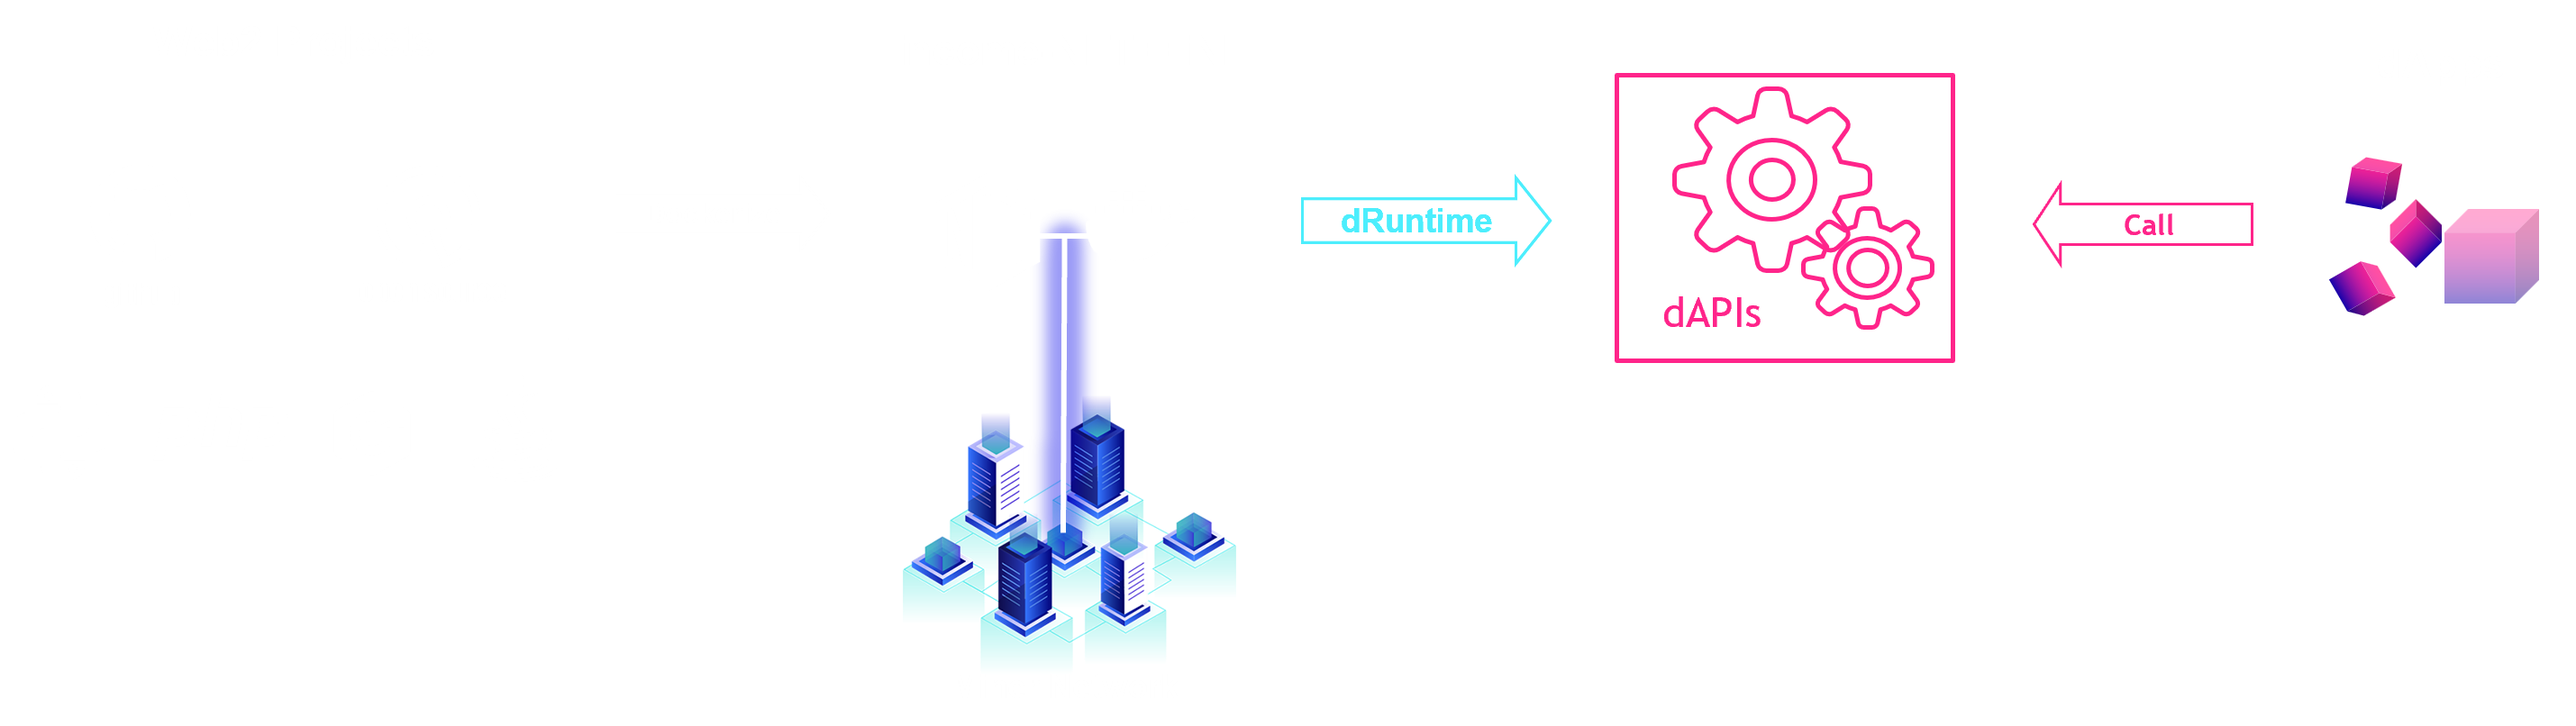
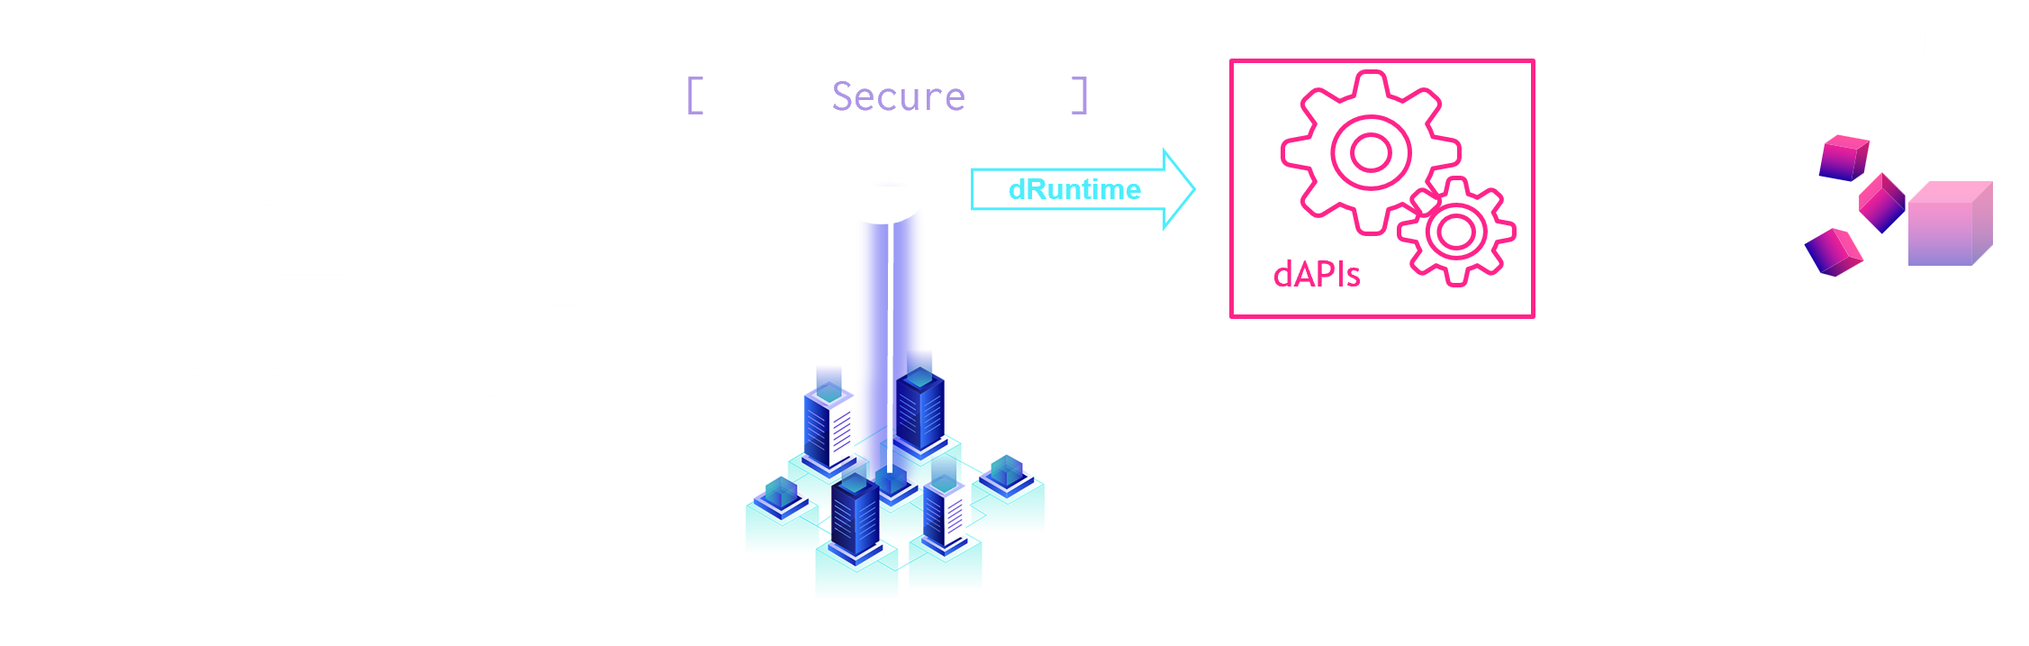
update

diff --git a/src/App.js b/src/App.js
@@ -23,12 +23,12 @@ import icon_location from './static/icon_location.png'
 import AppHeader from './components/app_header/AppHeader';
 import { isChrome } from './utils/platform';
 
-export const white_paper_link = ""
+export const white_paper_link = "/file/SaaS3Whitepaper.pdf"
 export const pichdeck_link = ""
 const interval_height = '12rem'
 
-const dev_mode = false;
-// const dev_mode = true;
+// const dev_mode = false;
+const dev_mode = true;
 // controls whether the opening screen should show.
 
 export const goToOverview = () => {
@@ -96,8 +96,8 @@ function App() {
                     </div>
 
                     <div hidden={clicked} className="App-link" href="https://mythrillfiction.com/" target="_blank">
-                        <h1 className="graph-title-shadow"style={{zIndex:-1,bottom:'auto'}}> Software as a Service in Web3 </h1>
-                        <h1 className="graph-title" style={{zIndex:2}}> Software as a Service in Web3 </h1>
+                        <h1 className="graph-title-shadow"style={{zIndex:-1,bottom:'auto'}}> oracle network in Web3 </h1>
+                        <h1 className="graph-title" style={{zIndex:2}}> oracle network in Web3 </h1>
                     </div>
                 </div>
 
@@ -142,18 +142,16 @@ function App() {
                 
                 {/* id is used only for jummping, do not use on next <h1> if not needed */}
                 <div className='article_child'>
-                <h1 id='overview'>Web3 vs Web2</h1>
+                <h1 id='overview'>Blockchain Oracles are Unsafe</h1>
                 <div>
                 <p>
-                    Few Web3 Dapps regardless of rich abundant SaaS in Web2. For decentralized applications to acquire full-fledged functionalities, Web3 calls for an entirely different development stack than employed in web2. Existing blockchain layer2 virtual machines lack effective computational capabilities, making it a financial and technical challenge to deliver rich computation services. The layer2 scaling for not only high-priced Gas fees but the technical development stack is urgent.
+                    If the source (such as sensors) directly submits the data to the tamper-proof distributed ledger without going through multiple intermediaries, the possibility of data manipulation will be greatly reduced. However, the Off-Chain computations are centralized on AWS-like servers.
                 </p></div>
-                <div className='images'>
-                    <div>
                     <img
                         className="article-img"
                         src={problemimg1}
-                    /></div>
-                </div>
+                        style={{width:'600px'}}
+                    />
                 </div>
                 {/*<div style={{height:interval_height}} />*/}
             </div>
@@ -161,7 +159,7 @@ function App() {
             <div className='Overview article'  style={{zIndex:3}} >
                 <div className='article_child'>
                 <h1>Layer2 Trilemma</h1>
-                    <p>Decentralization, Scalability and Partition tolerance. SaaS3 approaches the trilemma with layerX protocol and delivers a solution for the next generation Dapps. </p>
+                    <p>Decentralization, Scalability and Partition tolerance. SaaS3 approaches the trilemma with SaaS3 protocol and delivers a solution for the next generation Dapps. </p>
                     <br></br>
                      <img
                         className="article-img"
@@ -172,23 +170,21 @@ function App() {
             </div>
             <div className='Overview article'  style={{zIndex:3}} >
                 <div className='article_child'>
-                <h1>Software as a Service in Web3</h1>
+                <h1>Secure oracle as a Service</h1>
                 <p>
-                    SaaS3 establishes a platform for the next generation of Dapps, or ‘Dapp2.0’, to expand and deliver. SaaS3 revolutionizes the traditional Dapp development architecture with layerX / dAPIs, which goes beyond the established blockchain layer2. It employs the decentralized docker runtime (dRuntime) to address the poor compatibility for WASM / EVM. Traditional Dapp has three parts, whereas Dapp2 architecture has four components, namely Layer2, Frontend, LayerX, and Oracles.
+                    Web2 API providers could deploy their serverless APIs on decentralized runtime (dRuntime). Each miner could run all the serverless Web2 APIs.
                 </p>
                     <br></br>
                      <img
                         className="article-img"
                         src={ss3}
-                        style={{width:'800px'}}
+                        style={{width:'500px'}}
                     />
                 </div>
             </div>
             <div className='Overview article'  style={{zIndex:3}} >
                 <div className='article_child'>
-                <h1>LayerX</h1>
-                    <p>LayerX allows developers to monetize abundant Web2 APIs as decentralized Web3 ‘dAPIs’ in only 10 minutes with docker containers. On LayerX, all Web2 APIs could be dockerized in containers and rapidly deployed in a decentralized miner network, or decentralized docker runtime (dRuntime). By minting income-NFTs (iNFT) with their created dAPIs, API developers claim full entitlements to API-derived income earned in tokens. Holders of iNFTs and providers of computing resources (Miners) share profits from users’ payments, making ‘middleman’ a thing of the past.
-</p>
+                <h1>Trustful APIs</h1>
                     <br></br>
                              <img
                         className="article-img"
@@ -199,15 +195,16 @@ function App() {
             </div>
              <div className='Overview article'  style={{zIndex:3}} >
                 <div className='article_child'>
-                <h1 id='demo'>dAPI, dRuntime, and Usecase</h1>
-                    <p style={{textAlign:'center'}}>dRuntime is the decentralized environment to run dAPIs on decentralized computation nodes (Miners)
-                    </p>
-                    <br></br>
-                             <img
-                        className="article-img"
-                        src={dapi}
-                        style={{width:'500px'}}
-                    />
+                <h1 id='demo' name='demo'>Usecase</h1>
+                    {/*<p style={{textAlign:'center'}}>dRuntime is the decentralized environment to run dAPIs on decentralized computation nodes (Miners).*/}
+                    {/*</p>*/}
+                    {/*<br/>*/}
+                    {/*         <img*/}
+                    {/*    className="article-img"*/}
+                    {/*    src={dapi}*/}
+                    {/*    style={{width:'500px'}}*/}
+                    {/*/><br/>*/}
+                 <p style={{textAlign:'center', marginTop:'5vh'}}>Blockchain oracles with trustful off-chain computation are the future of Web3 to involve rich functionalities.</p>
                  <div className='usecase'>
                      <div className='page-content'>
                          <div className='card2'>
@@ -221,33 +218,40 @@ function App() {
                          </div>
                           <div className='card2'>
                             <div className='content'>
-                                <h2 className='title'>Digital Avatar</h2>
+                                <h2 className='title'>Game Bot</h2>
                                 <p className='copy'>
-                                    Avatar is your alter ego living in the decentralized world. Let us spare you the rocket knowledge to build one. We introduce dAPIs to create a metaverse image for you to meet with friends or co-workers.
+                                    Thanks to reinforcement learning, our dAPIs equip developers with ever-brainier bots. Familiarize bots with game mechanisms and economic regimes to enrich the gaming experience. Build best GameFi experiences.
                                 </p>
-                                <button className='btn' onClick={()=>{window.open('https://www.saas3.io/demo_dp', '_blank')}}>Try</button>
+                                <button className='btn' onClick={()=>{window.open('https://www.saas3.io/demo_pve', '_blank')}}>Try</button>
                             </div>
                          </div>
                           <div className='card2'>
                             <div className='content'>
-                                <h2 className='title'>Digital Avatar</h2>
+                                <h2 className='title'>NFT Generation</h2>
                                 <p className='copy'>
-                                    Avatar is your alter ego living in the decentralized world. Let us spare you the rocket knowledge to build one. We introduce dAPIs to create a metaverse image for you to meet with friends or co-workers.
+                                    Our dAPIs help you demystify engineering a fleet of NFTs.  Developers can grab a handy API to kick-start and fast-track their work. Create, customize, and assemble your digital collectibles.
                                 </p>
-                                <button className='btn' onClick={()=>{window.open('https://www.saas3.io/demo_dp', '_blank')}}>Try</button>
+                                <button className='btn' onClick={()=>{window.open('https://www.saas3.io/demo_ainft', '_blank')}}>Try</button>
                             </div>
                          </div>
                           <div className='card2'>
                             <div className='content'>
-                                <h2 className='title'>Digital Avatar</h2>
+                                <h2 className='title'>dQuant for DeFi</h2>
                                 <p className='copy'>
-                                    Avatar is your alter ego living in the decentralized world. Let us spare you the rocket knowledge to build one. We introduce dAPIs to create a metaverse image for you to meet with friends or co-workers.
+                                    Navigate quantitative trading with ease. Harness the latest algorithms developed by AI whizzes. Enabled by deep learning, our dAPIs are your go-to cash cow.
                                 </p>
-                                <button className='btn' onClick={()=>{window.open('https://www.saas3.io/demo_dp', '_blank')}}>Try</button>
+                                <button className='btn' onClick={()=>{window.open('https://www.saas3.io/demo_defi', '_blank')}}>Try</button>
                             </div>
                          </div>
-
-
+                         <div className='card2'>
+                            <div className='content'>
+                                <h2 className='title'>NFT Crossverse</h2>
+                                <p className='copy'>
+                                    Crossverse: Topple down boundaries between metaverse realms. Give every NFT a ready-made character in all virtual worlds. Use dAPI to switch between your decentralized identities seamlessly.
+                                </p>
+                                {/*<button className='btn' onClick={()=>{window.open('https://www.saas3.io/demo_defi', '_blank')}}>Try</button>*/}
+                            </div>
+                         </div>
                      </div>
                  </div>
                 </div>
@@ -256,33 +260,21 @@ function App() {
                 <div className='article_child'>
                 <h1>Tokenomics</h1>
                 <p>
-                    SA3 is the utility token in SaaS3 with the following use cases. API creators earn SA3 as royalty fees by creating a docker container and deploying it on the dRuntime. When deploying the dAPI, its creator may mint a unique tradable income-NFT (iNFT). The iNFT entitles its owner to a share of usage fee paid by dAPI user. dAPI users / Dapp developers pay $SA3 to API creators and miners as both usage fee and Gas fee. Miners (Computation nodes) earn Gas fees in executing the dAPI and maintaining dRuntime on their hardware. A miner can deploy any docker images. The mechanism of dAPI service offering redundancy delivers dRuntime to fully decentralize computation for SaaS3. Miner stakes and receives tasks based on zero-knowledge proof. LPoS and zk-proof guarantee the dRuntime consistency and security.
-                    Token Stakers profit from dAPI income by staking SA3 to high-quality dAPIs with DPoS (Delegated Poof-of-Stake).
+                SAAS is the utility token for governance and value store.
+Web2 API creators earn royalty fees by deploy a serverless API on the dRuntime to serve Dapps.
+Dapps (Smart Contracts) pay royalty fees and Gas fees to access APIs.
+Miners (Computation nodes) earn Gas fees in executing the APIs.
+Token Stakers profit from APIs royalty fees by staking to APIs to back their quality security (DPoS).
                 </p>
                 <div>
                 <img
                     className="article-img"
                     src={roles}
-                    style={{width:'600px'}}
+                    style={{width:'500px'}}
                 /></div>
                 {/*<div style={{height:interval_height}} />*/}
                 </div>
             </div>
-            <div className='Overview article'  style={{zIndex:3}} >
-                <div className='article_child'>
-                <h1>Portraits</h1>
-                <p>
-                </p>
-                <div>
-                <img
-                    className="article-img"
-                    src={portait}
-                    style={{width:'1000px'}}
-                /></div>
-                {/*<div style={{height:interval_height}} />*/}
-                </div>
-            </div>
-
 
             <div className='Overview article'  style={{zIndex:3}} >
                 <div className='article_child'>

diff --git a/src/components/contact/contact.js b/src/components/contact/contact.js
@@ -10,9 +10,9 @@ import {
 import './contact.css'
 import { Space } from 'antd'
 import {white_paper_link} from "../../App";
-export const twitter_link = "https://twitter.com/SaaS3DAO"
-export const telegram_link = "https://t.me/SaaS3DAO"
-export const github_link = "https://github.com/SaaS3DAO"
+export const twitter_link = "https://twitter.com/SaaS3Lab"
+export const telegram_link = "https://t.me/layerXnetwork"
+export const github_link = "https://github.com/SaaS3Lab"
 export const map_link = "https://goo.gl/maps/L4vicaLurYULHQ8Z6"
 
 const ContactBar = ({className}) => {
@@ -27,17 +27,17 @@ const ContactBar = ({className}) => {
             
             <div className="contact-unfold contact-unfold-short">
                 <TwitterOutlined className="contact-icon"/>
-                <div className="contact-unfold-text" onClick={()=>{window.open(twitter_link)}}>@SaaS3DAO</div>
+                <div className="contact-unfold-text" onClick={()=>{window.open(twitter_link)}}>@SaaS3Lab</div>
             </div>
 
             <div className="contact-unfold contact-unfold-short">
                 <SendOutlined className="contact-icon" style={{fontSize:24,paddingTop:2}}/>
-                <div className="contact-unfold-text" onClick={()=>{window.open(telegram_link)}}>SaaS3DAO</div>
+                <div className="contact-unfold-text" onClick={()=>{window.open(telegram_link)}}>SaaS3Lab</div>
             </div>
 
             <div className="contact-unfold">
                 <GithubOutlined className="contact-icon" style={{fontSize:24,paddingTop:2}}/>
-                <div className="contact-unfold-text" onClick={()=>{window.open(github_link)}}>https://github.com/SaaS3DAO</div>
+                <div className="contact-unfold-text" onClick={()=>{window.open(github_link)}}>https://github.com/SaaS3Lab</div>
             </div>
             <div className="contact-unfold">
                 <HomeOutlined className="contact-icon" style={{fontSize:24,paddingTop:2}}/>

diff --git a/src/components/network/network.js b/src/components/network/network.js
@@ -8,7 +8,7 @@ import {goToDemo, goToOverview, white_paper_link} from "../../App";
 import { isChrome } from "../../utils/platform";
 
 import safari_bg from '../../static/safari_bg.jpg';
-import logo from '../../logo.png'
+import title_png from '../../logo.png'
 
 
 
@@ -92,7 +92,7 @@ const NetworkGraph = ({style, className, height}) => {
     //     Graph.refresh();
     // });
 
-    const title = "Constructing the Next Generation Dapp"
+    const title = "Secure Off-Chain with Trustful APIs"
 
 
     return (
@@ -122,16 +122,16 @@ const NetworkGraph = ({style, className, height}) => {
                     enableNodeDrag={false}
                     enableNavigationControls={false}
                     enablePointerInteraction={false}
-                    showNavInfo={false}
+                    showNavInfo={false  }
                 />}
             </div>
             <div className="graph-title-container">
-                <img src={logo} style={{width:'30vw',marginBottom:'5%'}}/>
+                <img src={title_png} style={{width:'30vw',marginBottom:'5%'}}/>
                 <div className="relative-container" style={{marginBottom: 'calc(4vw + 20px)'}}>
                     <h1 className="graph-title-shadow"> {title} </h1>
                     <h1 className="graph-title" style={{zIndex:2}}> {title} </h1>
                 </div>
-                <p className="graph-text">SaaS3 is Decentralized Software as a Service. Click <a onClick={goToOverview}> Overview </a>to Learn More
+                <p className="graph-text">SaaS3 is Secure oracle as a Service in Web3. Click <a onClick={goToOverview}> Overview </a>to Learn More
                 <br/>
                 <a
                 onClick={goToDemo}

diff --git a/src/utils/usecase.css b/src/utils/usecase.css
@@ -1,7 +1,7 @@
 .usecase{
   display: grid;
   place-items: center;
-  margin-top: 5vh;
+  margin-top: 2vh;
 }
 
 :root{
@@ -74,16 +74,24 @@
   transition: transform calc(var(--d) * 2) var(--e);
 }
  .usecase .card2:nth-child(1):before {
-  background-image: url(../static/dig_avatar.png);
+     background-image: url(../static/dig_avatar.png);
+     background-size: contain;
 }
  .usecase .card2:nth-child(2):before {
-  background-image: url(https://images.unsplash.com/photo-1533903345306-15d1c30952de?ixlib=rb-1.2.1&q=80&fm=jpg&crop=entropy&cs=tinysrgb&w=400&fit=max&ixid=eyJhcHBfaWQiOjE0NTg5fQ);
+     background-image: url(../static/game_bot.png);
+     background-size: contain;
 }
  .usecase .card2:nth-child(3):before {
-  background-image: url(https://images.unsplash.com/photo-1545243424-0ce743321e11?ixlib=rb-1.2.1&q=80&fm=jpg&crop=entropy&cs=tinysrgb&w=400&fit=max&ixid=eyJhcHBfaWQiOjE0NTg5fQ);
+     background-image: url(../static/nft_gen.png);
+     background-size: contain;
 }
  .usecase .card2:nth-child(4):before {
-  background-image: url(https://images.unsplash.com/photo-1531306728370-e2ebd9d7bb99?ixlib=rb-1.2.1&q=80&fm=jpg&crop=entropy&cs=tinysrgb&w=400&fit=max&ixid=eyJhcHBfaWQiOjE0NTg5fQ);
+     background-image: url(../static/defi.png);
+     background-size: contain;
+}
+.usecase .card2:nth-child(5):before {
+     background-image: url(../static/crossverse.png);
+     background-size: contain;
 }
 
  .usecase .content {
@@ -110,6 +118,9 @@
   font-family: var(--font-serif);
   font-size: 1rem;
   font-style: italic;
+     font-weight: bold;
+     padding: 10px;
+     background: #000000bd;
   line-height: 1.35;
   width:inherit;
   text-align: inherit;

diff --git a/src/components/app_header/AppHeader.js b/src/components/app_header/AppHeader.js
@@ -20,7 +20,6 @@ const AppHeader = ({setClicled, tab, setTab}) => {
                 className='App-menu-item'
                 onClick={goToDemo}
             >Usecase/Demo</button>
-            <button className="App-menu-item" onClick={()=>{window.open(pichdeck_link)}}>Pitch Deck</button>
             <button className="App-menu-item" onClick={()=>{window.open(white_paper_link)}}>White Paper</button>
             <Dropdown
                 overlay={
@@ -37,7 +36,7 @@ const AppHeader = ({setClicled, tab, setTab}) => {
             
             <button className="App-menu-item" onClick={()=>{message.info("Comming Soon")}}>Miners</button>
             <button className="App-menu-item" onClick={()=>{message.info("Comming Soon")}}>Creators</button>
-            <button className="App-menu-item" onClick={()=>{message.info("Comming Soon")}}>AI Users</button>
+            <button className="App-menu-item" onClick={()=>{message.info("Comming Soon")}}>dAPI Users</button>
         </>
     )
 
